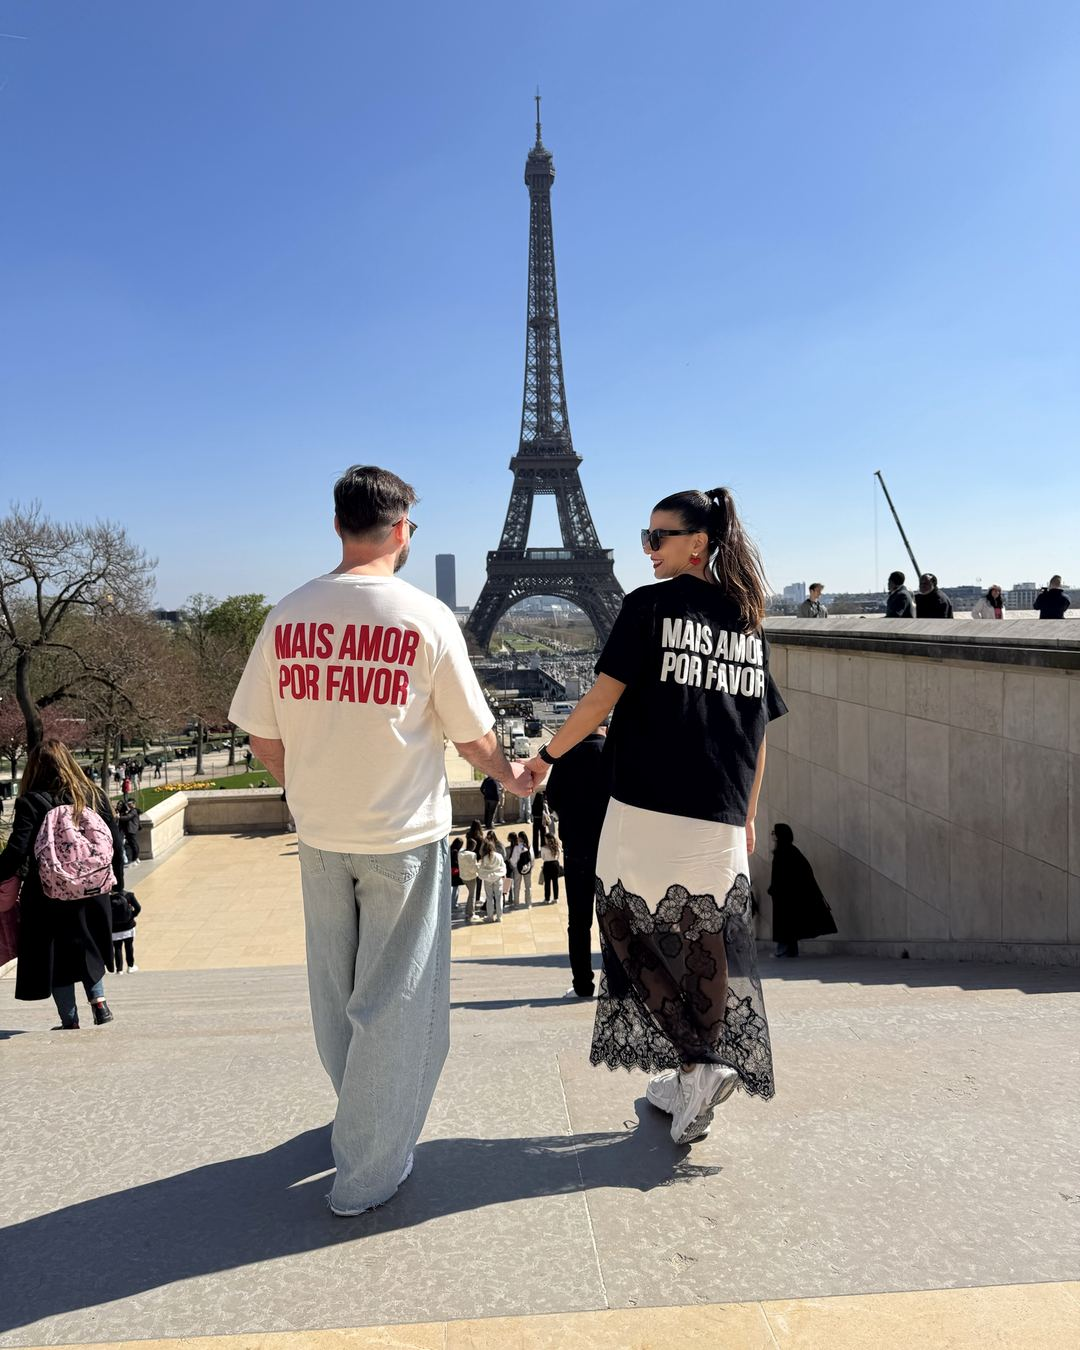
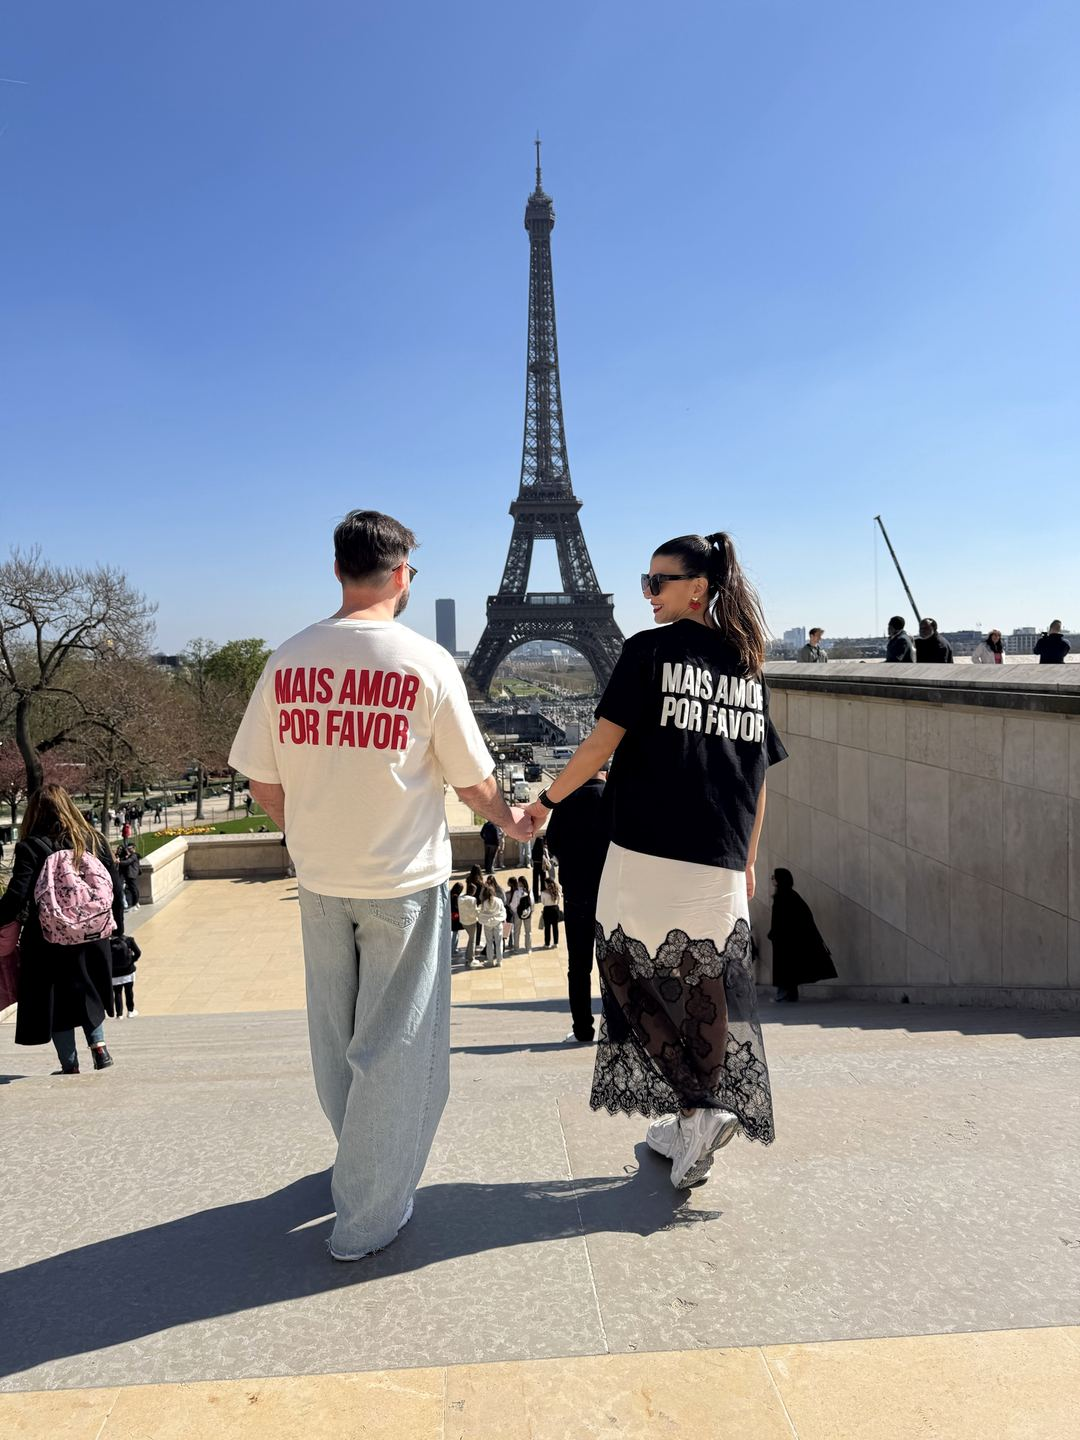
fix proportions

diff --git a/index.html b/index.html
@@ -36,10 +36,10 @@
 
   /* Foto de abertura: sangra até às bordas no telemóvel, fica na coluna com cantos suaves em ecrãs largos */
   .hero{position:relative; margin:0 calc(50% - 50vw) 0; overflow:hidden; background:var(--tinta)}
-  .hero img{display:block; width:100%; height:auto; aspect-ratio:4/5; object-fit:cover}
+  .hero img{display:block; width:100%; height:auto; aspect-ratio:3/4; object-fit:cover}
   .hero figcaption{
     position:absolute; inset:auto 0 0 0; padding:5rem 1.25rem 1.5rem; color:#fff; text-align:center;
-    background:linear-gradient(to bottom, rgba(20,34,29,0) 0%, rgba(20,34,29,.55) 55%, rgba(20,34,29,.8) 100%);
+    background:linear-gradient(to bottom, rgba(16,20,26,0) 0%, rgba(16,20,26,.5) 50%, rgba(16,20,26,.82) 100%);
   }
   @media (min-width: 30rem){ .hero{margin:2rem 0 0; border-radius:.75rem} }
 
@@ -80,8 +80,8 @@
   <figure class="hero">
     <!-- Foto: img/hero-*.jpg (recorte 4:5, 72 KB e 135 KB). O browser escolhe o tamanho conforme o ecrã. -->
     <img src="img/hero-1080.jpg" srcset="img/hero-720.jpg 720w, img/hero-1080.jpg 1080w"
-         sizes="(min-width: 30rem) 24rem, 100vw" width="1080" height="1350"
-         alt="Ana e Pedro abraçados numa piscina, com a serra e o rio ao fundo" fetchpriority="high" decoding="async">
+         sizes="(min-width: 30rem) 24rem, 100vw" width="1080" height="1440"
+         alt="Ana e Pedro de mão dada, de costas, com a Torre Eiffel ao fundo" fetchpriority="high" decoding="async">
     <figcaption>
       <!-- [EDITAR] nomes -->
       <h1 class="nomes">Ana<span>&amp;</span>Pedro</h1>
